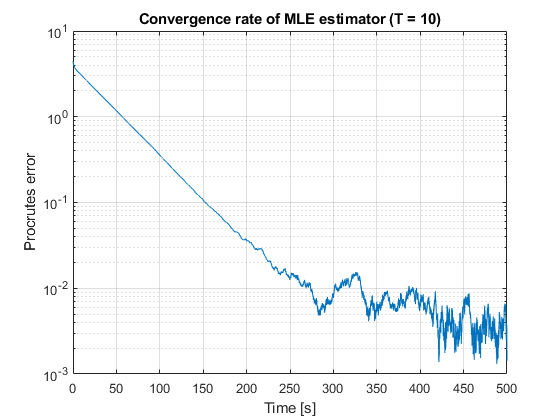
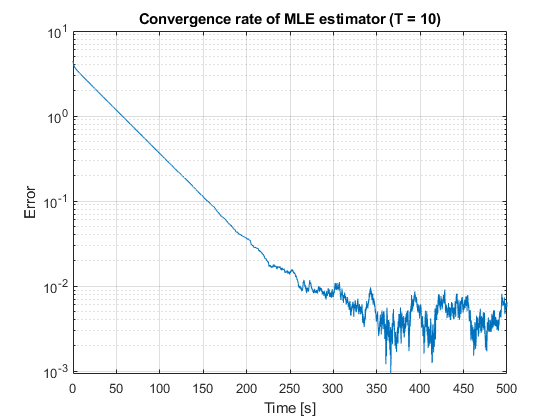
Adding comments, removing unused stuff
Final final final final final final final final final final final final final final final final final version

diff --git a/main_statistics.m b/main_statistics.m
@@ -5,15 +5,14 @@ load("data.mat")
 z_org = z;
 
 % Parameters
-dt = 0.01;
-K = 50000;
+dt = 0.1;
+K = 5000;
 noise_power = 1;
-control_law_speed = 1;
-maxTime = K * dt * control_law_speed; %in sec
+maxTime = K * dt; %in sec
 
 % Start the statistics routine here
-M = 5;
-Pro_error_struct = zeros(5,M,K);
+M = 50;
+error_struct = zeros(5,M,K);
 for m = 1:M
     %% Formation control Noiseless case
     % Position vector in 2D in time per drone/agent
@@ -38,7 +37,7 @@ for m = 1:M
             U(k,i,:) = L(i,:)*(z_i-z);
     
             % Change position according to input
-            z_pos(k+1,i,:) = z_pos(k,i,:) + control_law_speed*dt*U(k,i,:);
+            z_pos(k+1,i,:) = z_pos(k,i,:) + dt*U(k,i,:);
     
             % Reshape 2D z_pos per node to fill into z with all nodes
             z(i,:) = reshape(z_pos(k+1,i,:), size(z(i,:)));
@@ -47,7 +46,7 @@ for m = 1:M
     end
     
     % Add the error curve
-    Pro_error_struct(1,m,:) = pos_err;
+    error_struct(1,m,:) = pos_err;
 
     %% Formation control Noise case
     
@@ -75,7 +74,7 @@ for m = 1:M
             U(k,i,:) = L(i,:)*(z_i-z+v);
     
             % Change position according to input
-            z_pos(k+1,i,:) = z_pos(k,i,:) + control_law_speed*dt*U(k,i,:);
+            z_pos(k+1,i,:) = z_pos(k,i,:) + dt*U(k,i,:);
     
             % Reshape 2D z_pos per node to fill into z with all nodes
             z(i,:) = reshape(z_pos(k+1,i,:), size(z(i,:)));
@@ -84,7 +83,7 @@ for m = 1:M
     end
     
     % Add the error curve
-    Pro_error_struct(2,m,:) = pos_err;
+    error_struct(2,m,:) = pos_err;
 
     %% Formation control Noise case with averaging over 10 samples estimator
     
@@ -123,7 +122,7 @@ for m = 1:M
             U(k,i,:) = L(i,:)*distance_reshaped;
     
             % Change position according to input
-            z_pos(k+1,i,:) = z_pos(k,i,:) + control_law_speed*dt*U(k,i,:);
+            z_pos(k+1,i,:) = z_pos(k,i,:) + dt*U(k,i,:);
     
             % Reshape 2D z_pos per node to fill into z with all nodes
             z(i,:) = reshape(z_pos(k+1,i,:), size(z(i,:)));
@@ -132,7 +131,7 @@ for m = 1:M
     end
      
     % Add the error curve
-    Pro_error_struct(3,m,:) = pos_err;
+    error_struct(3,m,:) = pos_err;
 
     %% Formation control Noise case with MLE, Gaussian noise and linear model estimator
     
@@ -178,7 +177,7 @@ for m = 1:M
             U(k,i,:) = L(i,:)*zHat;
     
             % Change position according to input
-            z_pos(k+1,i,:) = z_pos(k,i,:) + control_law_speed*dt*U(k,i,:);
+            z_pos(k+1,i,:) = z_pos(k,i,:) + dt*U(k,i,:);
             
             % Reshape 2D z_pos per node to fill into z with all nodes
             z(i,:) = reshape(z_pos(k+1,i,:), size(z(i,:)));
@@ -188,7 +187,7 @@ for m = 1:M
     end
     
     % Add the error curve
-    Pro_error_struct(4,m,:) = pos_err;
+    error_struct(4,m,:) = pos_err;
 
     %% Formation control Noise case with MLE, Gaussian noise and linear model estimator
     
@@ -234,7 +233,7 @@ for m = 1:M
             U(k,i,:) = L(i,:)*zHat;
     
             % Change position according to input
-            z_pos(k+1,i,:) = z_pos(k,i,:) + control_law_speed*dt*U(k,i,:);
+            z_pos(k+1,i,:) = z_pos(k,i,:) + dt*U(k,i,:);
             
             % Reshape 2D z_pos per node to fill into z with all nodes
             z(i,:) = reshape(z_pos(k+1,i,:), size(z(i,:)));
@@ -244,18 +243,18 @@ for m = 1:M
     end
     
     % Add the error curve
-    Pro_error_struct(5,m,:) = pos_err;
+    error_struct(5,m,:) = pos_err;
     
     % Loading bar progress
     m
 end
 
 %% Plotting
-plot_noiseless_case = reshape(mean(Pro_error_struct(1,:,:),2),K,1);
-plot_noise_case = reshape(mean(Pro_error_struct(2,:,:),2),K,1);
-plot_MA = reshape(mean(Pro_error_struct(3,:,:),2),K,1);
-plot_MLE = reshape(mean(Pro_error_struct(4,:,:),2),K,1);
-plot_MLE_100 = reshape(mean(Pro_error_struct(5,:,:),2),K,1);
+plot_noiseless_case = reshape(mean(error_struct(1,:,:),2),K,1);
+plot_noise_case = reshape(mean(error_struct(2,:,:),2),K,1);
+plot_MA = reshape(mean(error_struct(3,:,:),2),K,1);
+plot_MLE = reshape(mean(error_struct(4,:,:),2),K,1);
+plot_MLE_100 = reshape(mean(error_struct(5,:,:),2),K,1);
 
 time = linspace(0,maxTime,K);
 figure
@@ -273,7 +272,7 @@ hold on;
 
 yscale("log")
 grid("on")
-ylabel("Procrutes error")
+ylabel("Error")
 xlabel("Time [s]")
 title("Mean convergence over 50 runs")
 legend("AutoUpdate","on")
